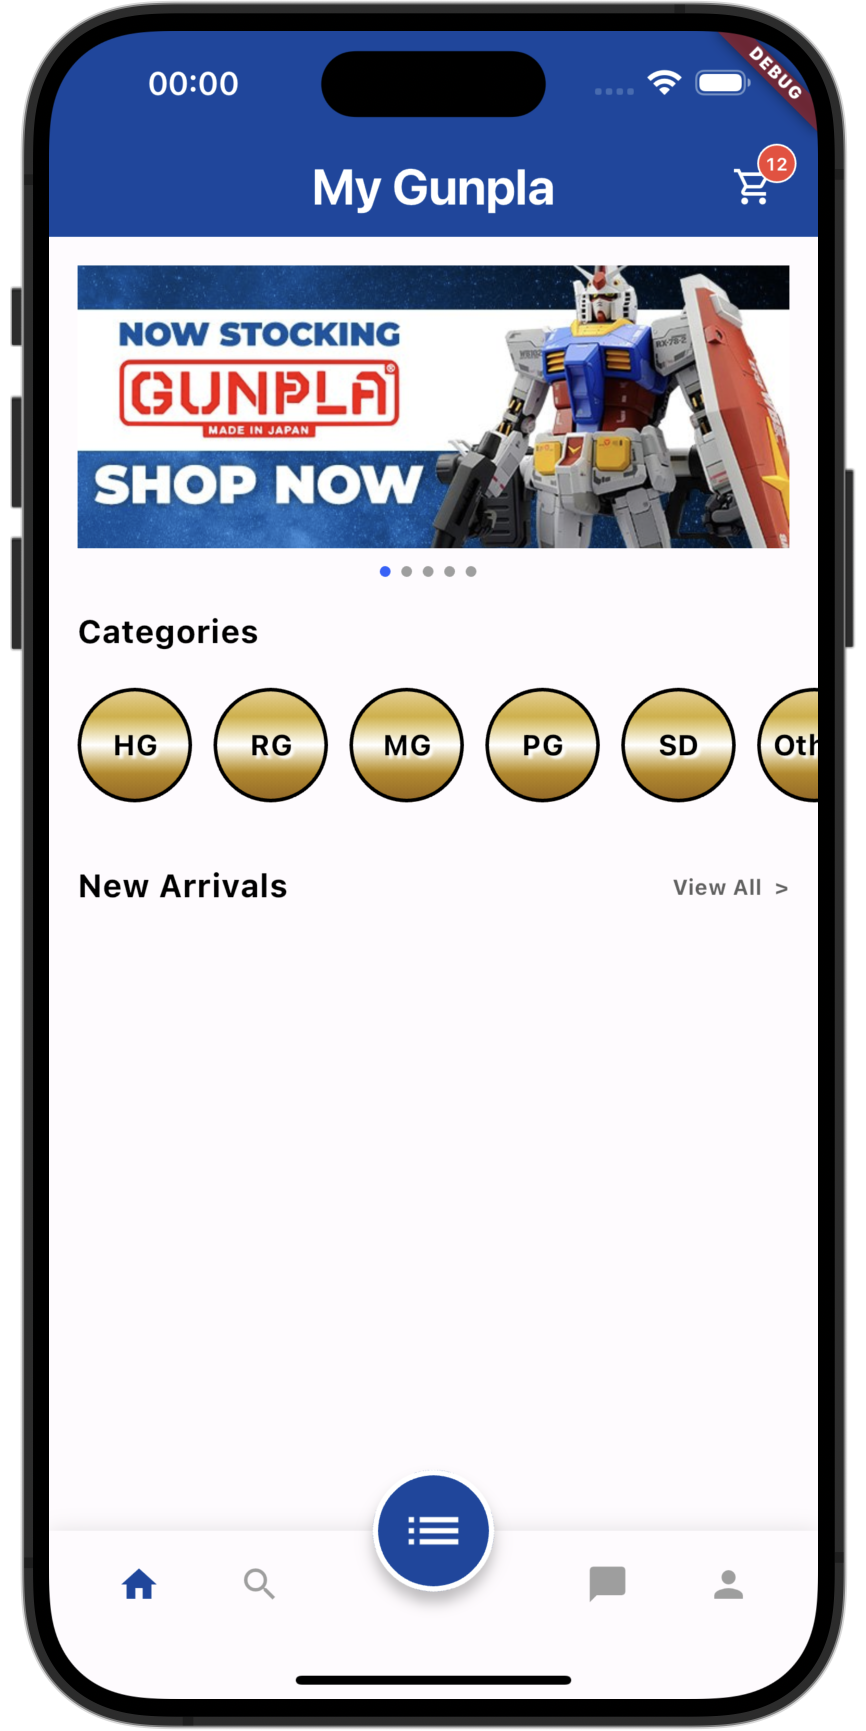
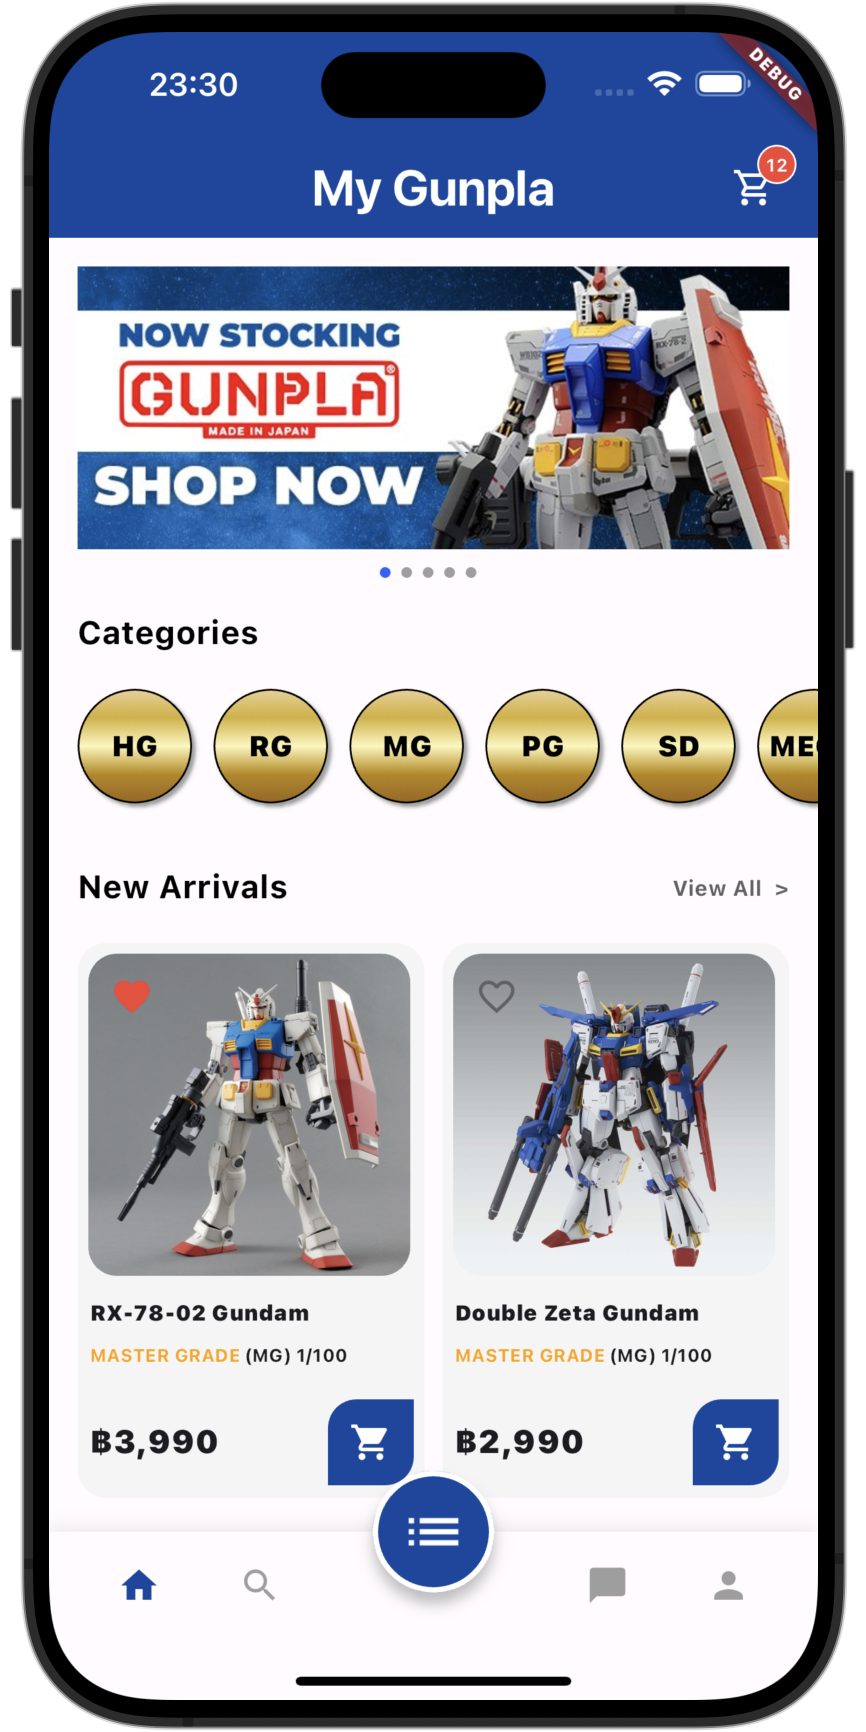
home page 60%

diff --git a/lib/pages/layout.dart b/lib/pages/layout.dart
@@ -2,8 +2,7 @@ import 'package:flutter/material.dart';
 import 'package:flutter/services.dart';
 import 'package:flutter_bloc/flutter_bloc.dart';
 import 'package:my_gunpla/blocs/layout.dart';
-import 'package:my_gunpla/common/constants.dart';
-import 'package:my_gunpla/common/storage.dart';
+import 'package:my_gunpla/widgets/card.dart';
 import 'package:my_gunpla/widgets/image_slider.dart';
 import 'package:my_gunpla/widgets/loading.dart';
 
@@ -20,7 +19,25 @@ class _LayoutState extends State<Layout> {
   double _opacity = 1;
   double _offset = 0;
 
-  final List<String> _grade = ["HG", "RG", "MG", "PG", "SD", "Other"];
+  final _grade = ["HG", "RG", "MG", "PG", "SD", "MEGA", "Other"];
+  final _list = [
+    {
+      "src": "https://bandai-hobby.net/images/153_1404_s_oec4f9ci5m8sljikee16z934028i.jpg",
+      "title": "RX-78-02 Gundam",
+      "grade": "MASTER GRADE",
+      "scale": "(MG) 1/100",
+      "price": 3990,
+      "isFavorite": true,
+    },
+    {
+      "src": "https://bandai-hobby.net/images/153_4658_s_p568ql57g7ei9oxwqxxj6pj38olz.jpg",
+      "title": "Double Zeta Gundam",
+      "grade": "MASTER GRADE",
+      "scale": "(MG) 1/100",
+      "price": 2990,
+      "isFavorite": false,
+    },
+  ];
 
   @override
   void initState() {
@@ -181,32 +198,36 @@ class _LayoutState extends State<Layout> {
                                       colors: [
                                         Color(0xFFEBD197),
                                         Color(0xFFD4AF37),
-                                        Color(0xFFFFFFFF),
+                                        Color(0xFFFCF6BA),
                                         Color(0xFFB8860D),
                                         Color(0xFF996515),
                                       ],
                                     ),
                                     border: Border.all(
-                                      width: 2,
+                                      width: 1,
                                       color: Colors.black,
                                     ),
                                     borderRadius: BorderRadius.circular(108),
+                                    boxShadow: const [
+                                      BoxShadow(
+                                        color: Colors.grey,
+                                        blurRadius: 1,
+                                        offset: Offset(2, 2),
+                                      ),
+                                    ],
                                   ),
                                   child: Center(
-                                    child: Text(
-                                      _grade[index],
-                                      style: const TextStyle(
-                                        fontSize: 16,
-                                        color: Colors.black,
-                                        fontWeight: FontWeight.bold,
-                                        shadows: [
-                                          Shadow(
-                                            offset: Offset(2, 2),
-                                            blurRadius: 1,
-                                            color: Colors.white,
+                                    child: Stack(
+                                      children: [
+                                        Text(
+                                          _grade[index],
+                                          style: const TextStyle(
+                                            fontSize: 16,
+                                            color: Colors.black,
+                                            fontWeight: FontWeight.w900,
                                           ),
-                                        ],
-                                      ),
+                                        )
+                                      ],
                                     ),
                                   ),
                                 ),
@@ -237,6 +258,28 @@ class _LayoutState extends State<Layout> {
                             ),
                           ),
                         ],
+                      ),
+                      const SizedBox(height: 18),
+                      GridView.builder(
+                        itemCount: _list.length,
+                        shrinkWrap: true,
+                        physics: const NeverScrollableScrollPhysics(),
+                        gridDelegate: const SliverGridDelegateWithFixedCrossAxisCount(
+                          crossAxisCount: 2,
+                          mainAxisExtent: 310,
+                          crossAxisSpacing: 10,
+                          mainAxisSpacing: 10,
+                        ),
+                        itemBuilder: (context, index) {
+                          return MyCard(
+                            _list[index]["src"]!.toString(),
+                            title: _list[index]["title"]!.toString(),
+                            grade: _list[index]["grade"]!.toString(),
+                            scale: _list[index]["scale"]!.toString(),
+                            price: _list[index]["price"]! as num,
+                            isFavorite: _list[index]["isFavorite"]! as bool,
+                          );
+                        },
                       ),
                     ],
                   ),
@@ -352,76 +395,4 @@ class _LayoutState extends State<Layout> {
       listener: (context, state) {},
     );
   }
-}
-
-void clearToken() {
-  Storage.remove(Constants.ACCESS_TOKEN);
-  Storage.remove(Constants.REFRESH_TOKEN);
-}
-
-Widget pages(int selected) {
-  final pages = [
-    const Center(
-      child: Row(
-        mainAxisAlignment: MainAxisAlignment.center,
-        children: [
-          Text("Home", style: TextStyle(fontSize: 24)),
-          IconButton(
-            onPressed: clearToken,
-            icon: Icon(Icons.delete_sweep),
-          )
-        ],
-      ),
-    ),
-    const Center(
-      child: Row(
-        mainAxisAlignment: MainAxisAlignment.center,
-        children: [
-          Text("Search", style: TextStyle(fontSize: 24)),
-          IconButton(
-            onPressed: clearToken,
-            icon: Icon(Icons.delete_sweep),
-          )
-        ],
-      ),
-    ),
-    const Center(
-      child: Row(
-        mainAxisAlignment: MainAxisAlignment.center,
-        children: [
-          Text("Category", style: TextStyle(fontSize: 24)),
-          IconButton(
-            onPressed: clearToken,
-            icon: Icon(Icons.delete_sweep),
-          )
-        ],
-      ),
-    ),
-    const Center(
-      child: Row(
-        mainAxisAlignment: MainAxisAlignment.center,
-        children: [
-          Text("Chat", style: TextStyle(fontSize: 24)),
-          IconButton(
-            onPressed: clearToken,
-            icon: Icon(Icons.delete_sweep),
-          )
-        ],
-      ),
-    ),
-    const Center(
-      child: Row(
-        mainAxisAlignment: MainAxisAlignment.center,
-        children: [
-          Text("Profile", style: TextStyle(fontSize: 24)),
-          IconButton(
-            onPressed: clearToken,
-            icon: Icon(Icons.delete_sweep),
-          )
-        ],
-      ),
-    ),
-  ];
-
-  return pages[selected];
 }

diff --git a/lib/widgets/card.dart b/lib/widgets/card.dart
@@ -1,0 +1,135 @@
+import 'package:flutter/material.dart';
+import 'package:intl/intl.dart';
+
+class MyCard extends StatefulWidget {
+  final String src;
+  final String title;
+  final String grade;
+  final String scale;
+  final num price;
+  final bool isFavorite;
+
+  const MyCard(
+    this.src, {
+    super.key,
+    required this.title,
+    required this.grade,
+    required this.scale,
+    required this.price,
+    required this.isFavorite,
+  });
+
+  @override
+  State<MyCard> createState() => _MyCardState();
+}
+
+class _MyCardState extends State<MyCard> {
+  @override
+  Widget build(BuildContext context) {
+    return Container(
+      width: 195,
+      padding: const EdgeInsets.all(6),
+      decoration: BoxDecoration(
+        borderRadius: BorderRadius.circular(16),
+        color: Colors.grey[100],
+      ),
+      child: Column(
+        crossAxisAlignment: CrossAxisAlignment.start,
+        children: [
+          Container(
+            height: 180,
+            decoration: BoxDecoration(
+              borderRadius: BorderRadius.circular(16),
+              color: Colors.white,
+            ),
+            child: Stack(
+              children: [
+                ClipRRect(
+                  borderRadius: BorderRadius.circular(16),
+                  child: Image.network(widget.src),
+                ),
+                Positioned(
+                  top: 0,
+                  left: 0,
+                  child: IconButton(
+                    icon: Icon(
+                      widget.isFavorite ? Icons.favorite : Icons.favorite_border,
+                      color: widget.isFavorite ? Colors.red : Colors.grey[700],
+                    ),
+                    onPressed: () {},
+                  ),
+                ),
+              ],
+            ),
+          ),
+          const SizedBox(height: 12),
+          Padding(
+            padding: const EdgeInsets.only(left: 1),
+            child: Column(
+              crossAxisAlignment: CrossAxisAlignment.start,
+              children: [
+                Text(
+                  widget.title,
+                  style: const TextStyle(
+                    fontSize: 12,
+                    fontWeight: FontWeight.w900,
+                  ),
+                ),
+                const SizedBox(height: 8),
+                Row(
+                  children: [
+                    Text(
+                      widget.grade,
+                      style: TextStyle(
+                        color: Colors.amber[700],
+                        fontSize: 10,
+                        fontWeight: FontWeight.bold,
+                      ),
+                    ),
+                    const SizedBox(width: 2),
+                    Text(
+                      widget.scale,
+                      style: const TextStyle(
+                        fontSize: 10,
+                        fontWeight: FontWeight.bold,
+                      ),
+                    ),
+                  ],
+                ),
+                const SizedBox(height: 18),
+                Row(
+                  mainAxisAlignment: MainAxisAlignment.spaceBetween,
+                  children: [
+                    Text(
+                      '฿${NumberFormat("#,###").format(widget.price)}',
+                      style: const TextStyle(
+                        fontSize: 18,
+                        fontWeight: FontWeight.w900,
+                      ),
+                    ),
+                    Container(
+                      decoration: BoxDecoration(
+                        color: Colors.blue[900],
+                        borderRadius: const BorderRadius.only(
+                          topLeft: Radius.circular(16),
+                          bottomRight: Radius.circular(16),
+                        ),
+                      ),
+                      child: IconButton(
+                        icon: const Icon(
+                          Icons.shopping_cart,
+                          color: Colors.white,
+                        ),
+                        onPressed: () {},
+                      ),
+                    ),
+                  ],
+                )
+              ],
+            ),
+          ),
+        ],
+      ),
+    );
+  }
+}
